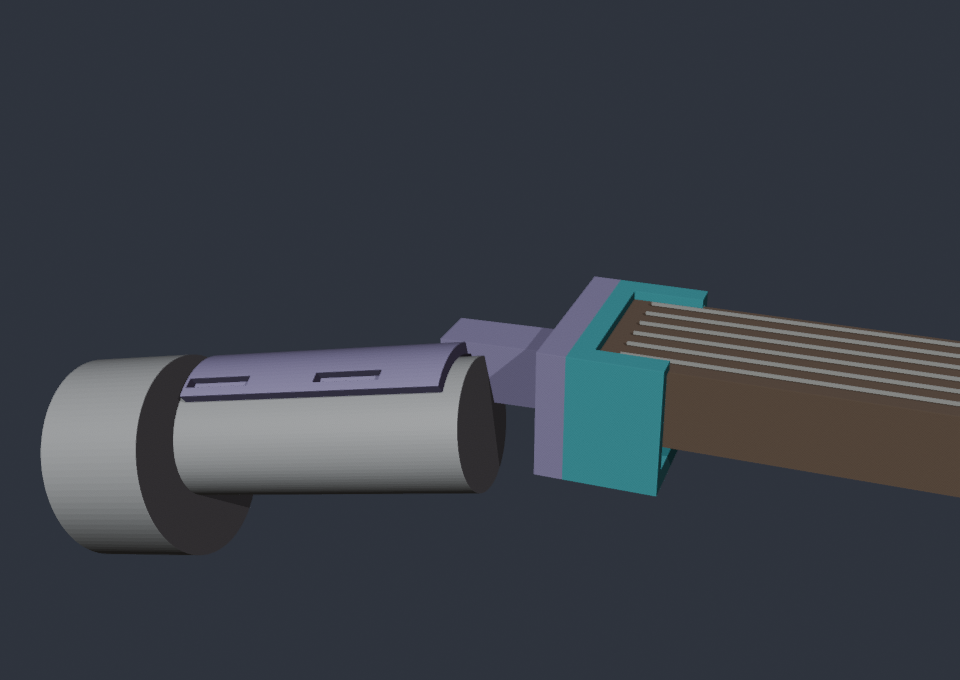
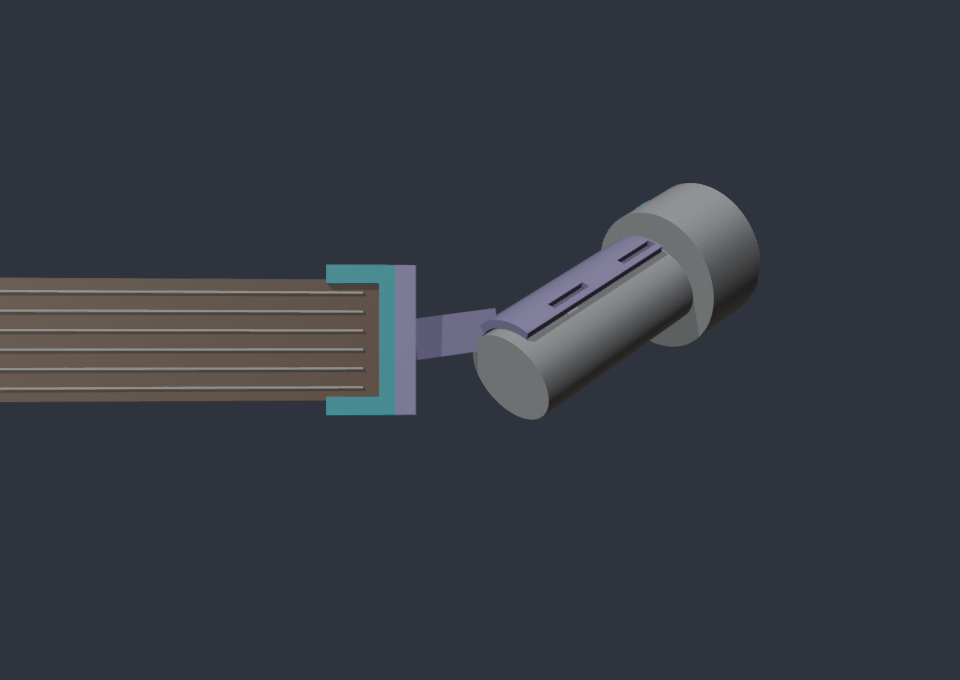
Raise the mounted controller like a headstock, its top surface toward the player
The first test held the Touch Plus past the Jamstik's head end, rising up
from the line of the neck, and the user wants its top control surface angled
partly toward them so the headset keeps seeing its tracking LEDs. The mount
only tipped the controller back, 12 degrees.

build_mount.py gains `grip_rise` (up from the neck line, toward the low-E
edge) beside `grip_tilt` (back toward the player). Defaults are 30 and 30
degrees, with the cradle rolled so the grip's palm side rests in it facing
the player: a Touch Plus top surface leans toward the palm side, so it ends
up angled at them. The build now reports how far that surface points from
the player's eyes (about 57 degrees here), using an estimated `face_cant`
and an eye position, and warns past 70. The previews gain a headset's-eye
view and a front view like the photo; the misnamed "player" view is gone.

mount_offset.json and the headset's built-in MountOffset.Cad carry the new
first guess. The EditMode test pins the neck at ~41 degrees off grip -Z, as
the new angles put it.

Changed region(s): [[0.0, 0.2471, 1.0, 0.8338]]

diff --git a/hardware/quest-guitar-mount/build_mount.py b/hardware/quest-guitar-mount/build_mount.py
@@ -63,8 +63,15 @@ DEFAULTS: dict[str, float] = {
     "grip_clear": 0.8,  # extra room around the grip
     # --- Layout -----------------------------------------------------------
     "arm_len": 26.0,  # end wall to the start of the cradle, along the neck
-    "grip_tilt": 12.0,  # grip axis tilted back from the neck line (like an angled headstock)
-    "face_roll": 125.0,  # cradle opening, rotated about the neck axis from +Z toward the low-E side
+    "grip_rise": 30.0,  # controller raised from the neck line toward the low-E edge (up, when playing), like a raised headstock
+    "grip_tilt": 30.0,  # ...and tipped back toward the player
+    "face_roll": -45.0,  # cradle opening, rotated about the neck axis from +Z toward the low-E side; the default
+    # opens away from the player, so the grip's palm side rests in the cradle facing the player
+    "face_cant": 50.0,  # how far the controller's top control surface leans from its grip axis toward the palm side (estimate)
+    # --- Where the player's eyes are, from the nut (only for the tracking check) ---
+    "eye_toward_body": 350.0,
+    "eye_up": 300.0,  # toward the low-E edge
+    "eye_back": 250.0,  # behind the fretboard face, toward the player
     # --- Print / hardware -------------------------------------------------
     "wall": 4.0,
     "end_wall": 6.0,
@@ -195,9 +202,11 @@ def frame(p: dict) -> dict:
     f["z_mid"] = (f["bottom_out"] + f["lip_top"]) / 2
     f["x_plate_out"] = f["x_wall_out"] - p["plate"]
     # Cradle orientation.
+    rise = math.radians(p["grip_rise"])
     tilt = math.radians(p["grip_tilt"])
     roll = math.radians(p["face_roll"])
-    axis = Vector((-math.cos(tilt), 0.0, -math.sin(tilt)))  # away from the guitar, tipped back
+    # Away from the guitar, raised toward the low-E edge, tipped back toward the player.
+    axis = Vector((-math.cos(rise) * math.cos(tilt), -math.sin(rise) * math.cos(tilt), -math.sin(tilt)))
     opening = Vector((0.0, -math.sin(roll), math.cos(roll)))  # about the neck axis, +Z toward low-E
     opening = (opening - axis * opening.dot(axis)).normalized()
     f["axis"], f["opening"] = axis, opening
@@ -211,6 +220,15 @@ def frame(p: dict) -> dict:
     # clear of it: one just past the arm, one near the far end.
     f["s_arm"] = -half_len + 9.0
     f["s_straps"] = (-half_len + 19.0 + p["strap_w"] / 2, half_len - p["strap_w"] / 2 - 1.0)
+    # The controller's top control surface: up the grip, leaning toward the palm
+    # side, which rests in the cradle (so, away from the opening). Its tracking
+    # LEDs need to see the headset, so the build reports how far it points from
+    # the player's eyes.
+    cant = math.radians(p["face_cant"])
+    f["face"] = (axis * math.cos(cant) - opening * math.sin(cant)).normalized()
+    f["head_centre"] = f["saddle_centre"] + axis * (half_len + 20)
+    eye = Vector((p["eye_toward_body"], -p["eye_up"], -p["eye_back"]))
+    f["face_to_eyes_deg"] = math.degrees(f["face"].angle(eye - f["head_centre"]))
     return f
 
 
@@ -292,8 +310,12 @@ def build_pad(p: dict, f: dict) -> bpy.types.Object:
 # ---------------------------------------------------------------------------
 
 
-def check(p: dict, parts: list[bpy.types.Object]) -> list[str]:
+def check(p: dict, parts: list[bpy.types.Object], f: dict | None = None) -> list[str]:
     notes = []
+    if f is not None:
+        print(f"[mount] top control surface points {f['face_to_eyes_deg']:.0f} deg from the player's eyes")
+        if f["face_to_eyes_deg"] > 70:
+            notes.append(f"the controller's top surface points {f['face_to_eyes_deg']:.0f} deg away from the eyes: tracking may drop")
     clearance = (p["head_width"] - p["string_spread_at_clamp"]) / 2 - p["lip"]
     if clearance < 1.0:
         notes.append(f"lips reach within {clearance:.1f} mm of the outer strings: lower 'lip' or measure again")
@@ -357,7 +379,8 @@ def mount_offset(p: dict, f: dict) -> dict:
         "neck_origin_in_grip_m": [round(c / 1000, 4) for c in local],
         "neck_rotation_in_grip_quat": [round(q.x, 5), round(q.y, 5), round(q.z, 5), round(q.w, 5)],
         "note": "First guess from the CAD (approximate grip-pose model); the headset's alignment check replaces it.",
-        "params": {k: p[k] for k in ("nut_to_tip", "head_top_z", "arm_len", "grip_tilt", "face_roll", "grip_len")},
+        "face_to_eyes_deg": round(f["face_to_eyes_deg"], 1),
+        "params": {k: p[k] for k in ("nut_to_tip", "head_top_z", "arm_len", "grip_rise", "grip_tilt", "face_roll", "face_cant", "grip_len")},
     }
 
 
@@ -379,15 +402,18 @@ def ghosts(p: dict, f: dict) -> list[bpy.types.Object]:
     neck = box("ghost_neck", (f["tip"], -p["head_width"] / 2, p["head_top_z"] - p["head_thickness"]), (260, p["head_width"] / 2, p["head_top_z"]))
     m = at(f["saddle_centre"], f["side"], f["opening"], f["axis"])
     grip = prism("ghost_grip", p["grip_width"] / 2, p["grip_depth"] / 2, p["grip_len"] + 10, m)
-    head = prism("ghost_head", 32, 30, 34, at(f["saddle_centre"] + f["axis"] * (p["grip_len"] / 2 + 20) + f["opening"] * 8, f["side"], f["opening"], f["axis"]))
+    head = prism("ghost_head", 32, 30, 34, at(f["head_centre"], f["side"], f["opening"], f["axis"]))
+    fz = f["face"]
+    fx = fz.orthogonal().normalized()
+    face = prism("ghost_face", 24, 24, 3, at(f["head_centre"] + fz * 18, fx, fz.cross(fx), fz))
     strings = []
     for i in range(6):
         y = -p["string_spread_at_clamp"] / 2 + i * p["string_spread_at_clamp"] / 5
         strings.append(box(f"ghost_string{i}", (f["tip"] + 6, y - 0.4, p["head_top_z"] + 0.5), (260, y + 0.4, p["head_top_z"] + 1.3)))
-    return [neck, grip, head, *strings]
+    return [neck, grip, head, face, *strings]
 
 
-def render(objects: dict[str, tuple[bpy.types.Object, tuple]], out: Path, f: dict) -> None:
+def render(objects: dict[str, tuple[bpy.types.Object, tuple]], out: Path, f: dict, p: dict) -> None:
     scene = bpy.context.scene
     scene.render.engine = "BLENDER_WORKBENCH"
     scene.display.shading.light = "STUDIO"
@@ -408,16 +434,23 @@ def render(objects: dict[str, tuple[bpy.types.Object, tuple]], out: Path, f: dic
     scene.collection.objects.link(cam)
     scene.camera = cam
     target = Vector((f["tip"] - 40, 0, -10))
-    views = {
-        "player": Vector((120, -330, 160)),  # from the player's side, above the low-E edge
-        "below": Vector((-60, 160, -260)),
-        "side": Vector((-90, -380, -20)),
-    }
-    for name, offset in views.items():
-        cam.location = target + offset
-        cam.rotation_euler = (target - cam.location).to_track_quat("-Z", "Y").to_euler()
+
+    def look(name: str, position: Vector, aim: Vector, up: Vector) -> None:
+        cam.location = position
+        fwd = (aim - position).normalized()
+        right = fwd.cross(up).normalized()
+        cam.rotation_euler = Matrix((right, right.cross(fwd), -fwd)).transposed().to_euler()
         scene.render.filepath = str(out / f"preview_{name}.png")
         bpy.ops.render.render(write_still=True)
+
+    up_when_playing = Vector((0, -1, 0))  # the low-E edge points at the ceiling
+    # What the headset sees: from the eye position the tracking check uses, so the
+    # controller's top surface (cyan) should face the camera.
+    look("eyes", Vector((p["eye_toward_body"], -p["eye_up"], -p["eye_back"])), f["head_centre"], up_when_playing)
+    # From the audience, as a webcam on the desk sees it: fretboard face on, head end to the right.
+    look("front", target + Vector((60, 0, 520)), target, up_when_playing)
+    look("below", target + Vector((-60, 160, -260)), target, Vector((0, 0, 1)))
+    look("side", target + Vector((-90, -380, -20)), target, Vector((0, 0, 1)))
 
 
 def main() -> None:
@@ -442,7 +475,7 @@ def main() -> None:
     clamp = build_head_clamp(p, f)
     cradle = build_cradle(p, f)
     pad = build_pad(p, f)
-    notes = check(p, [clamp, cradle, pad])
+    notes = check(p, [clamp, cradle, pad], f)
 
     export_stl(clamp, args.out / "head_clamp.stl")
     # Print the cradle on its mating face: +X (toward the clamp) -> down.
@@ -467,10 +500,11 @@ def main() -> None:
             "neck": (g[0], (0.36, 0.25, 0.18, 1)),
             "grip": (g[1], (0.85, 0.86, 0.88, 1)),
             "head": (g[2], (0.85, 0.86, 0.88, 1)),
+            "face": (g[3], (0.13, 0.83, 0.93, 1)),
         }
-        for i, s in enumerate(g[3:]):
+        for i, s in enumerate(g[4:]):
             colours[f"string{i}"] = (s, (0.9, 0.9, 0.85, 1))
-        render(colours, args.out, f)
+        render(colours, args.out, f, p)
 
     for n in notes:
         print(f"[mount] WARNING: {n}")

diff --git a/UnityClient/Aural Primer/Assets/AuralPrimer/Tests/FretboardTests.cs b/UnityClient/Aural Primer/Assets/AuralPrimer/Tests/FretboardTests.cs
@@ -85,10 +85,11 @@ namespace AuralPrimer.Link.Tests
             const string file = @"{
   ""controller"": ""meta-quest-touch-plus"",
   ""pose"": ""openxr-grip"",
-  ""neck_origin_in_grip_m"": [-0.0011, -0.0007, -0.1235],
-  ""neck_rotation_in_grip_quat"": [0.58762, 0.39332, -0.65656, 0.26255],
+  ""neck_origin_in_grip_m"": [-0.006, -0.0462, -0.1098],
+  ""neck_rotation_in_grip_quat"": [-0.49851, 0.6841, 0.02222, 0.53198],
   ""note"": ""First guess from the CAD (approximate grip-pose model); the headset's alignment check replaces it."",
-  ""params"": { ""nut_to_tip"": 40.0, ""grip_tilt"": 12.0, ""face_roll"": 125.0 }
+  ""face_to_eyes_deg"": 56.9,
+  ""params"": { ""nut_to_tip"": 40.0, ""grip_rise"": 30.0, ""grip_tilt"": 30.0, ""face_roll"": -45.0, ""face_cant"": 50.0 }
 }";
             Assert.IsTrue(MountOffset.TryParse(file, out var parsed));
             AssertNear(MountOffset.Cad.Position, parsed.Position, 1e-6f, "origin");
@@ -109,11 +110,14 @@ namespace AuralPrimer.Link.Tests
         {
             // The cradle points the controller's head away from the guitar, and
             // the grip pose's forward runs up toward that head -- so the neck,
-            // running toward the body, should point mostly along grip -Z, with
-            // the nut a dozen centimetres behind the grip. Read as the inverse
-            // rotation, the same numbers would point it 55 degrees off.
+            // running toward the body, points back along grip -Z, with the nut
+            // a dozen centimetres behind the grip. The mount raises and tips the
+            // controller (30 degrees each) so its top surface leans toward the
+            // player, which puts the neck about 41 degrees off grip -Z. Read as
+            // the inverse rotation, the same numbers would point it elsewhere.
             var neckAxis = Axis(MountOffset.Cad.Rotation, Vector3.UnitX);
-            Assert.That(Vector3.Dot(neckAxis, -Vector3.UnitZ), Is.GreaterThan(0.9f), $"neck axis {neckAxis}");
+            var dot = Vector3.Dot(neckAxis, -Vector3.UnitZ);
+            Assert.That(dot, Is.InRange(0.70f, 0.80f), $"neck axis {neckAxis}");
             Assert.That(MountOffset.Cad.Position.Z, Is.LessThan(-0.1f));
         }
 

diff --git a/UnityClient/Aural Primer/Assets/AuralPrimer/Scripts/Calibration/MountOffset.cs b/UnityClient/Aural Primer/Assets/AuralPrimer/Scripts/Calibration/MountOffset.cs
@@ -42,8 +42,8 @@ namespace AuralPrimer.Calibration
         /// GuitarAnchor, which reads the same shape (<see cref="TryParse"/>).
         /// </remarks>
         public static MountOffset Cad => new(
-            new Vector3(-0.0011f, -0.0007f, -0.1235f),
-            new Quaternion(0.58762f, 0.39332f, -0.65656f, 0.26255f));
+            new Vector3(-0.006f, -0.0462f, -0.1098f),
+            new Quaternion(-0.49851f, 0.6841f, 0.02222f, 0.53198f));
 
         /// <summary>
         /// Read the mount's offset file:

diff --git a/hardware/quest-guitar-mount/README.md b/hardware/quest-guitar-mount/README.md
@@ -5,7 +5,9 @@ the head end of a headless guitar, so the headset always knows where the neck
 is and the mixed-reality neck highway can sit on the real frets. The defaults
 target a **Jamstik Studio** (headless, 24 frets, 25.5" scale, 40 mm at the nut).
 
-![The mount on the head end, seen from the player's side](preview.png)
+![The mount on the head end, seen from the front](preview.png)
+
+![What the headset sees: the controller's top surface (cyan) angled toward the player](preview-eyes.png)
 
 Three printed pieces:
 
@@ -45,11 +47,26 @@ before printing the rest.
 
 ## 2. Tape-test the angle
 
-Before printing the cradle, hold the controller at the head end with painter's
-tape at the angle you want and play for a minute with the headset on. The
-controller is tracked by LEDs on its face, so the face needs to keep a view of
-the headset. When tracking stays steady, set `face_roll` (the turn about the
-neck) and `grip_tilt` (the tip back, like an angled headstock) to match.
+The default angle follows how the controller was held for the first test: past
+the head end, rising up from the line of the neck like a raised headstock, with
+its top control surface angled partly toward the player so the headset keeps
+seeing its tracking LEDs.
+
+| Parameter | Default | What it does |
+|---|---|---|
+| `grip_rise` | 30° | Lifts the controller from the neck line toward the low-E edge (up, when playing). This is the angle a front-on photo shows. |
+| `grip_tilt` | 30° | Tips it back toward the player. Raise it if tracking drops. |
+| `face_roll` | −45° | Turns the cradle about the neck. At the default, the grip's palm side rests in the cradle facing the player, so the top surface leans toward them. |
+| `face_cant` | 50° | How far a Touch Plus top surface leans from its grip. This is an estimate, used only for the tracking check. |
+
+Every build prints how far the top surface points from the player's eyes, and
+warns past 70°; the defaults give about 57°. The eye position is in
+`eye_toward_body`, `eye_up` and `eye_back` (mm from the nut). `preview_eyes.png`
+shows what the headset sees.
+
+Before printing the cradle, tape the controller to the head end at that angle
+and play for a minute with the headset on. When tracking stays steady, set the
+angles to match.
 
 ## 3. Build the STLs
 
@@ -93,7 +110,7 @@ watertight or has come apart into separate pieces. `out/` is git-ignored.
 2. Line the clamp's inner side walls, end wall and the undersides of both lips with felt, and put felt on the pad.
 3. Bolt the cradle to the clamp.
 4. Slide the clamp onto the head end until it touches the tip, set the pad under the head, and turn the screw finger-tight. It holds the head between the lips and the pad, so it only needs to be snug.
-5. Seat the controller's grip in the cradle with its head pointing away from the guitar and its face toward you. Run the straps through both slots and over the grip.
+5. Seat the controller's grip in the cradle with its head pointing away from the guitar, the palm side of the grip against the cradle (it faces you), and the top control surface leaning toward you. Run the straps through both slots and over the grip; they carry the controller, since the cradle opens away from you.
 6. In the headset, run the guitar setup's alignment check once. Remount the same way every time (cap against the tip, controller seated to the end of the cradle) and the saved alignment stays valid.
 
 ## `mount_offset.json`
